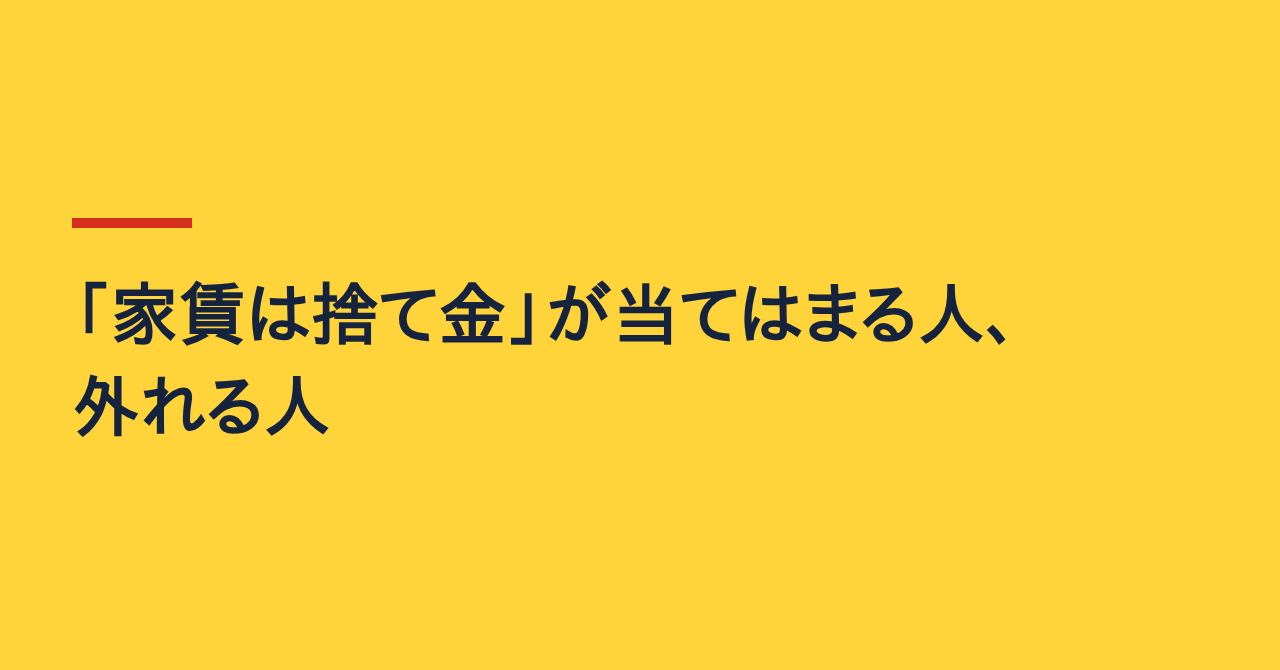
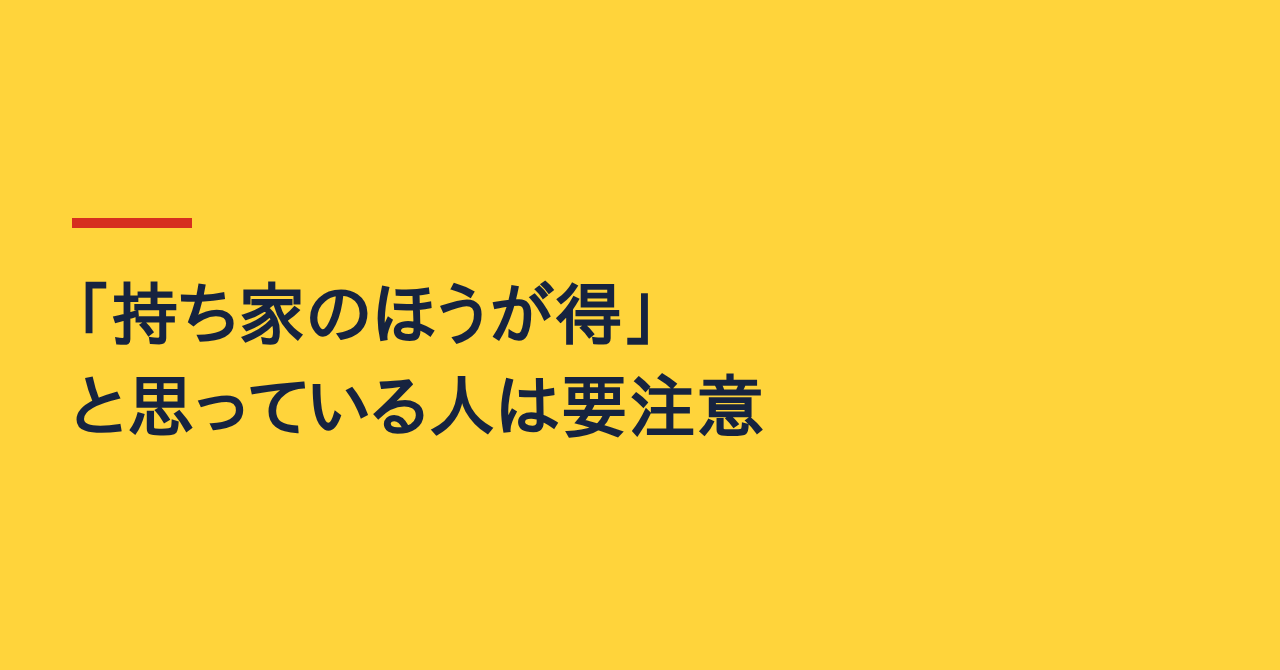
Run 2026-11-18_002: retitle to plain 要注意 style, regenerate cover/SNS
Claude-Session: https://claude.ai/code/session_019jxzMkHZEL8EPC28xkVZW1

Changed region(s): [[0.0625, 0.4179, 0.7812, 0.6567]]

diff --git a/runs/2026-11-18_002/06_sns.md b/runs/2026-11-18_002/06_sns.md
@@ -1,4 +1,4 @@
-# SNS投稿案: 「家賃は捨て金」が当てはまる人、外れる人
+# SNS投稿案: 「持ち家のほうが得」と思っている人は要注意
 
 ## X投稿案
 - 「家賃は捨て金」は当たっている?仮の試算では、35年後に残るお金は、比べる家賃と家の売値で入れ替わりました。実在の物件の結果ではなく、仮に置いた前提の計算です。【記事URL】
@@ -37,7 +37,7 @@
 【記事URL】
 
 ## Instagram投稿案
-1枚目: 「家賃は捨て金」が当てはまる人、外れる人。仮の試算で並べてみました。
+1枚目: 「持ち家のほうが得」と思っている人は要注意。仮の試算で並べてみました。
 2枚目: 前提(すべて仮置き):物件4,000万円・頭金400万円・35年・金利1〜3%。実在の物件や誰かの結果ではありません。
 3枚目: 持ち家の月の合計(金利2%の仮の試算):返済119,255円+税等34,000円+修繕積立金23,450円=176,705円。管理費は含まない。
 4枚目: 持ち家にも戻らないお金がある。35年分の利息・税・修繕積立金は、仮の試算で金利1%なら3,081万円、2%なら3,822万円、3%なら4,632万円。
@@ -73,11 +73,11 @@
 
 ## 告知ポスト
 ### X
-- 投稿当日用:「家賃は捨て金」が当てはまる人、外れる人、というnoteを公開しました。仮に置いた前提の「仮の試算」で、家賃・金利・35年後の売値によって、残るお金がどう入れ替わるかを並べています。自分の数字で出す式も載せています。【記事URL】
+- 投稿当日用:「持ち家のほうが得」と思っている人は要注意、というnoteを公開しました。仮に置いた前提の「仮の試算」で、家賃・金利・35年後の売値によって、残るお金がどう入れ替わるかを並べています。自分の数字で出す式も載せています。【記事URL】
 - 2日後のリマインド用:2日前に公開したnoteの再掲です。持ち家にも、利息・税・修繕積立金という戻らないお金があります(仮の試算で、金利2%なら35年で3,822万円)。管理費などは入れていない単純な試算です。よければどうぞ。【記事URL】
 
 ### Threads
-- 投稿当日用:noteを公開しました。「『家賃は捨て金』が当てはまる人、外れる人」。実在の物件や誰かの結果ではなく、仮に置いた前提で計算した「仮の試算」です。家賃・金利・35年後の売値で、持ち家と賃貸の残るお金がどう入れ替わるかを並べました。管理費・諸費用・住宅ローン控除などは入れていない単純な試算で、どちらが正しいかを決める記事ではありません。
+- 投稿当日用:noteを公開しました。「「持ち家のほうが得」と思っている人は要注意」。実在の物件や誰かの結果ではなく、仮に置いた前提で計算した「仮の試算」です。家賃・金利・35年後の売値で、持ち家と賃貸の残るお金がどう入れ替わるかを並べました。管理費・諸費用・住宅ローン控除などは入れていない単純な試算で、どちらが正しいかを決める記事ではありません。
 【記事URL】
 - 2日後のリマインド用:2日前に公開したnoteの再掲です。仮の試算で、金利2%・35年後の売値が半分のとき、並ぶ家賃(持ち家と賃貸の差がゼロになる家賃)は約13.9万円でした。金利や売値が変わると、この数字も動きます。自分の数字で出す式も載せています。助言ではなく、一般的な情報です。
 【記事URL】

diff --git a/runs/2026-11-18_002/05_revised.md b/runs/2026-11-18_002/05_revised.md
@@ -1,8 +1,8 @@
-# 「家賃は捨て金」が当てはまる人、外れる人
+# 「持ち家のほうが得」と思っている人は要注意
 
 こんにちは、人生最適化中の会社員です。
 
-## 「家賃は捨て金」、聞いたことがありませんか
+## 「持ち家のほうが得」「家賃は捨て金」、聞いたことがありませんか
 
 「家賃は捨て金だよ。買えば、最後は自分のものになるのに」
 
